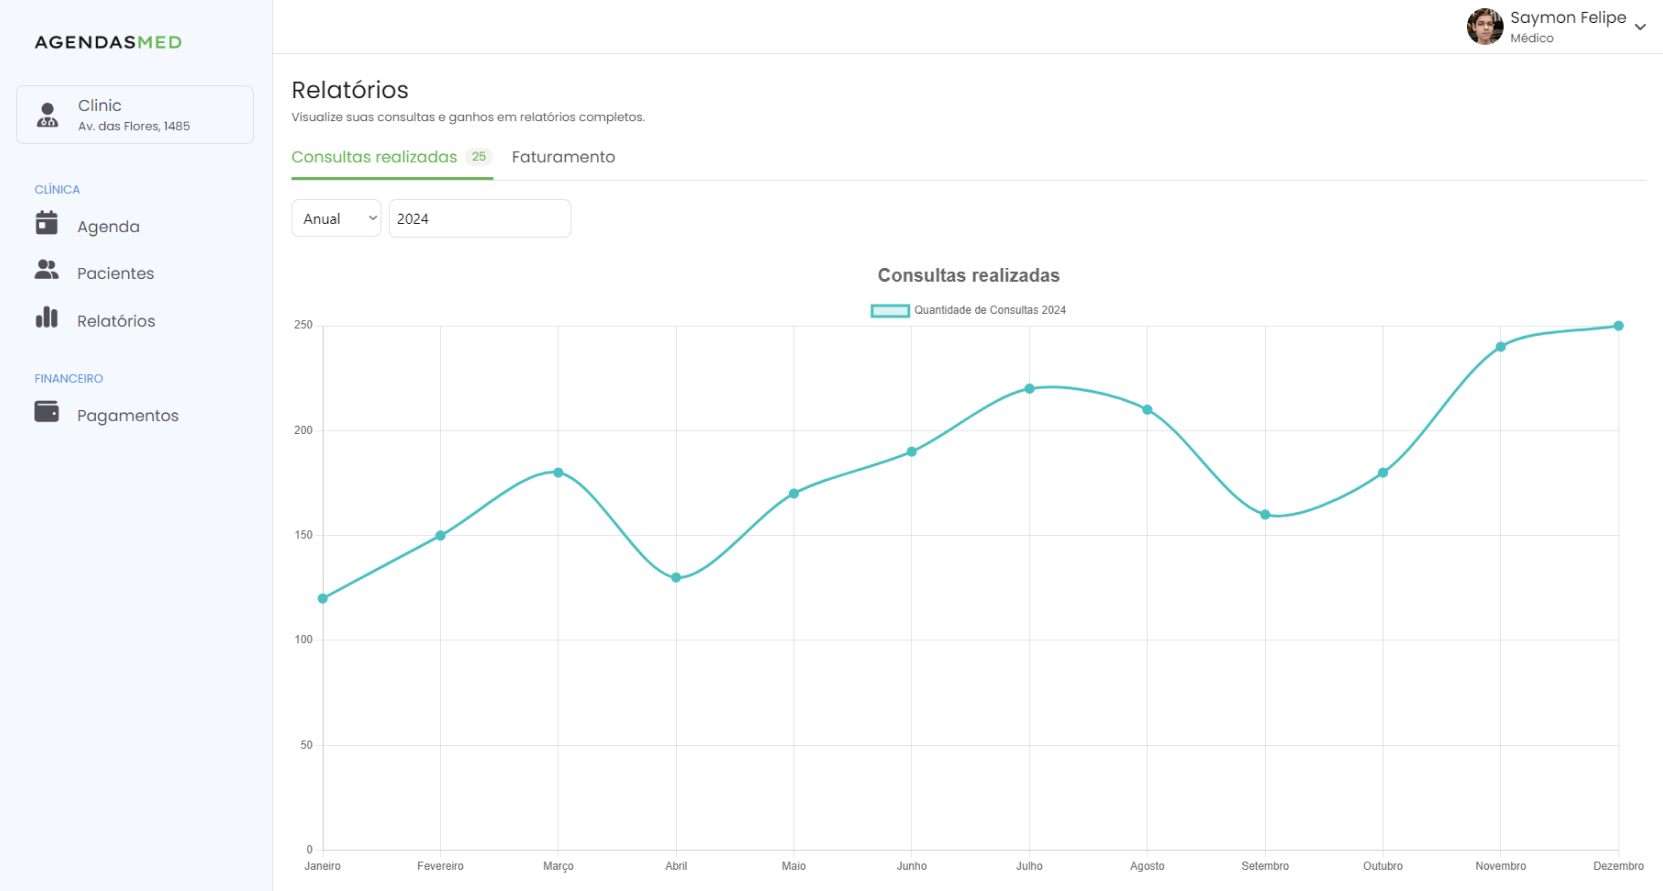
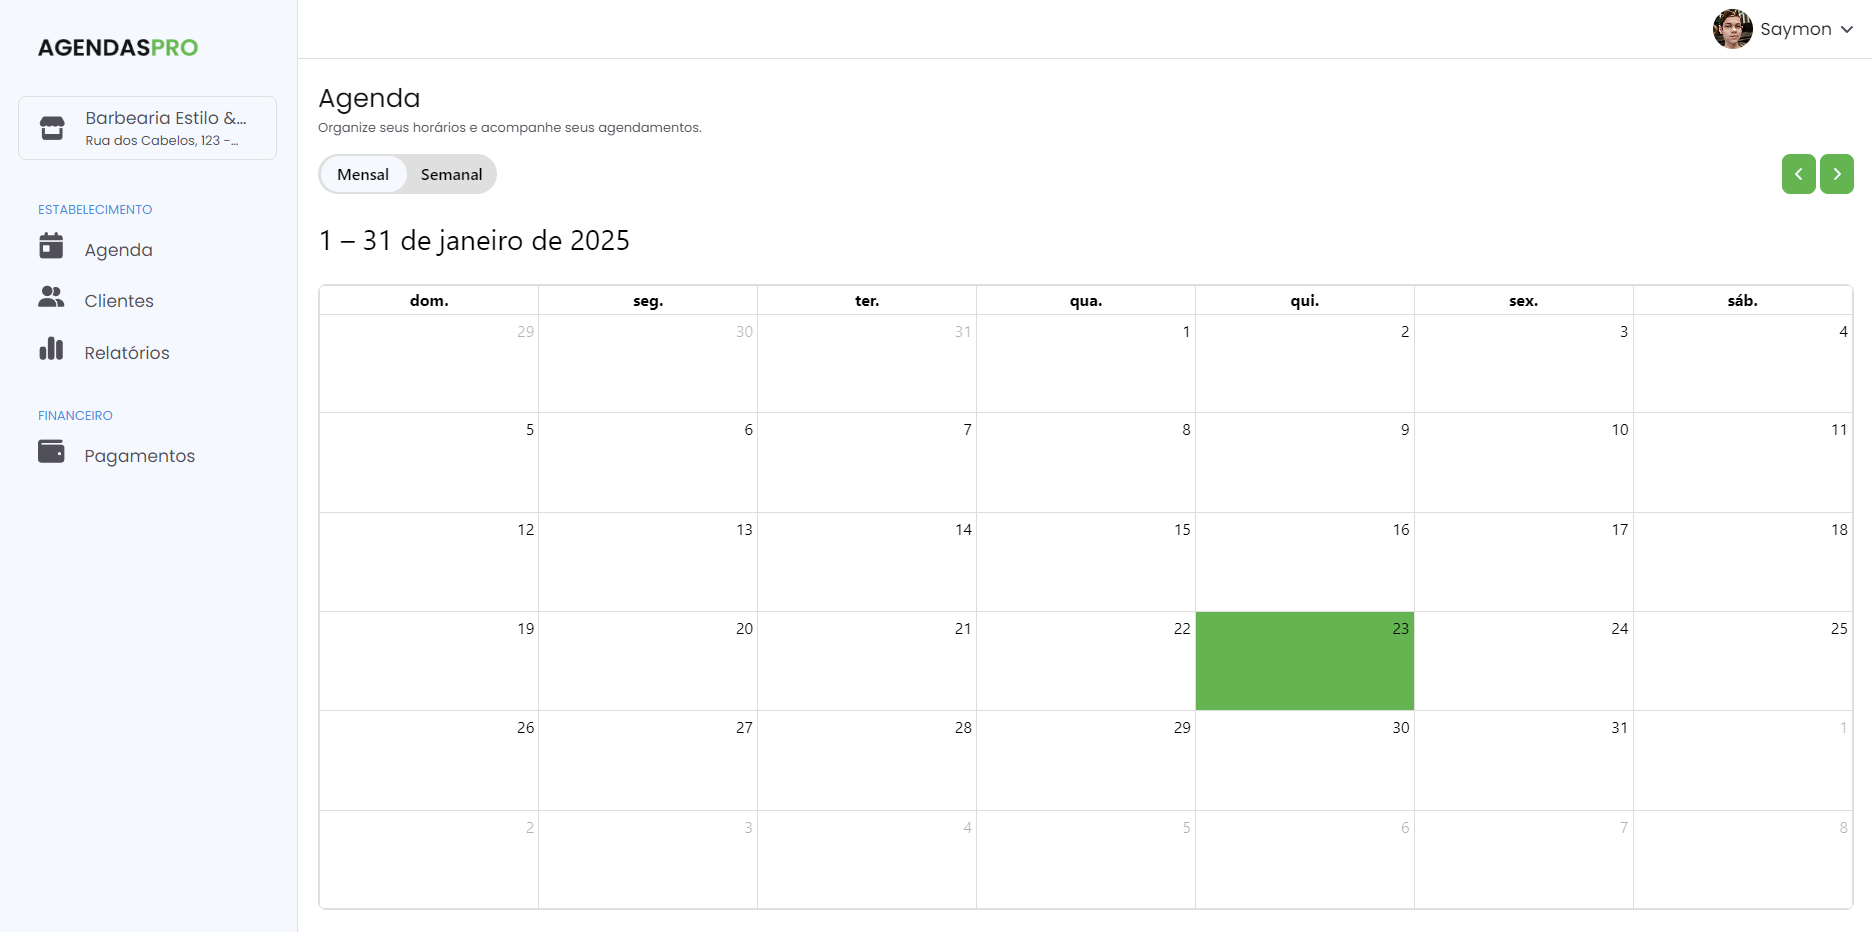
Renomeando algumas referencias ao sistema antigo

diff --git a/pages/login.vue b/pages/login.vue
@@ -2,7 +2,7 @@
     <div class="authentication-page-internal">
       <div class="authentication-header text-left">
         <h1 class="fontsize-xl-bold preto">Entrar</h1>
-        <p class="fontsize-md cinza">Faça login na sua conta do AgendasPro para acompanhar suas consultas.</p>
+        <p class="fontsize-md cinza">Faça login na sua conta do AgendasPro para acompanhar seus agendamentos.</p>
       </div>
       <form @submit.prevent="login">
         <div class="form-group">

diff --git a/components/Sidebar/Nav.vue b/components/Sidebar/Nav.vue
@@ -1,7 +1,7 @@
 <template>
     <nav>
         <div class="nav-group">
-            <p class="fontsize-sm">CLÍNICA</p>
+            <p class="fontsize-sm">ESTABELECIMENTO</p>
             <ul>
                 <li class="fontsize-md sidebar-text">
                     <router-link to="/agenda" @click.native="$emit('closeSidebar')"><font-awesome icon="calendar-day" class="sidebar-icons" />Agenda</router-link>

diff --git a/pages/relatorios.vue b/pages/relatorios.vue
@@ -1,6 +1,6 @@
 <template>
     <section>
-        <UtilsPageheader title="Relatórios" subtitle="Visualize suas consultas e ganhos em relatórios completos." />
+        <UtilsPageheader title="Relatórios" subtitle="Visualize seus agendamentos e ganhos em relatórios completos." />
         <UtilsTabs :tabs="tabs" @changedTab="changeChart($event)" />
         <div>
             <div class="filter">
